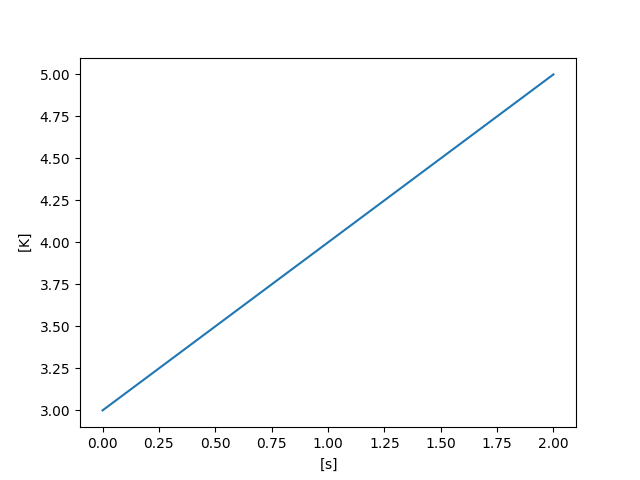
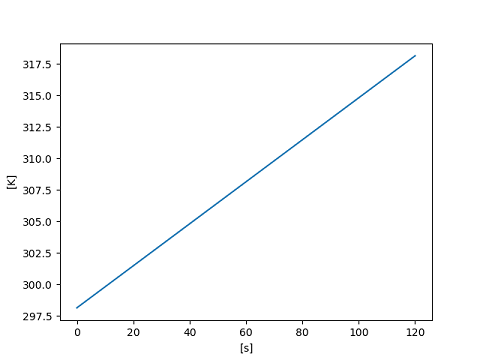
address review comments
- add name attribute to docstrings of unyt_array and unyt_quantity
- add name attribute documentation to usage
- update matplotlib documentation
- add more tests

diff --git a/unyt/mpl_interface.py b/unyt/mpl_interface.py
@@ -1,7 +1,11 @@
 """
-Register unyt_array with Matplotlib if it is available
+Matplotlib offers support for custom classes, such as unyt_array, allowing customization
+of axis information and unit conversion. In the case of unyt, the axis label is set
+based on the unyt_array.name and unyt_array.units attributes. It is also possible to
+convert the plotted units.
 
-
+This feature is optional and has to be enabled using the matplotlib_support context
+manager.
 """
 
 # -----------------------------------------------------------------------------
@@ -24,8 +28,20 @@ else:
     class unyt_arrayConverter(ConversionInterface):
         """Matplotlib interface for unyt_array"""
 
+        _instance = None
         _labelstyle = "()"
         _axisnames = WeakKeyDictionary()
+
+        # ensure that unyt_arrayConverter is a singleton
+        def __new__(cls):
+            if unyt_arrayConverter._instance is None:
+                unyt_arrayConverter._instance = super().__new__(cls)
+            return unyt_arrayConverter._instance
+
+        # When matplotlib first encounters a type in its units.registry, it will
+        # call default_units to obtain the units. Then it calls axisinfo to
+        # customize the axis - in our case, just set the label. Then matplotlib calls
+        # convert.
 
         @staticmethod
         def axisinfo(unit, axis):
@@ -59,18 +75,12 @@ else:
                 if unyt_arrayConverter._labelstyle == "[]":
                     label = name + "$\\left[" + unit_str + "\\right]$"
                 elif unyt_arrayConverter._labelstyle == "/":
-                    axsym = axis.axis_name
+                    axsym = "$q_{\\rm" + axis.axis_name + "}$"
+                    name = axsym if name == " " else name
                     if "/" in unit_str:
-                        label = (
-                            name
-                            + "$q_{"
-                            + axsym
-                            + "}\\;/\\;\\left("
-                            + unit_str
-                            + "\\right)$"
-                        )
+                        label = name + "$\\;/\\;\\left(" + unit_str + "\\right)$"
                     else:
-                        label = name + "$q_{" + axsym + "}\\;/\\;" + unit_str + "$"
+                        label = name + "$\\;/\\;" + unit_str + "$"
                 else:
                     label = name + "$\\left(" + unit_str + "\\right)$"
             return AxisInfo(label=label.strip())
@@ -91,6 +101,9 @@ else:
             Unit object
             """
             name = getattr(x, "name", "")
+            # maintain a mapping between Axis and name since Axis does not point to
+            # its underlying data and we want to propagate the name to the axis
+            # label in the subsequent call to axisinfo
             unyt_arrayConverter._axisnames[axis] = name if name is not None else ""
             return x.units
 
@@ -135,18 +148,22 @@ else:
             return converted_value
 
     class matplotlib_support:
-        """Context manager for setting up integration with Unyt in Matplotlib
+        """Context manager for enabling the feature
 
-        Parameters
-        ----------
+        When used in a with statement, the feature is enabled during the context and
+        then disabled after it exits.
 
-        label_style : str
-          One of the following set, ``{'()', '[]', '/'}``. These choices
-          correspond to the following unit labels:
+        Example
+        -------
 
-            * ``'()'`` -> ``'(unit)'``
-            * ``'[]'`` -> ``'[unit]'``
-            * ``'/'`` -> ``'q_x / unit'``
+        >>> import matplotlib.pyplot as plt
+        >>> from unyt import matplotlib_support, unyt_array
+        >>> x = unyt_array([0,1,2], "s", name="time")
+        >>> y = unyt_array([3,4,5], "m", name="distance")
+        >>> with matplotlib_support:
+        ...     plt.plot(x, y)
+        ...     plt.show()
+        [<matplotlib.lines.Line2D object at ...>]
         """
 
         def __init__(self, label_style="()"):
@@ -189,3 +206,6 @@ else:
         def disable(self):
             if self._enabled:
                 self.__exit__(None, None, None)
+
+
+__all__ = ["matplotlib_support"]

diff --git a/unyt/tests/test_mpl_interface.py b/unyt/tests/test_mpl_interface.py
@@ -180,15 +180,16 @@ def test_labelstyle():
     assert ax.yaxis.get_label().get_text() == expected_ylabel
     matplotlib_support.label_style = "/"
     ax.clear()
+    x.name = "$t$"
     ax.plot(x, y)
-    expected_xlabel = "$q_{x}\\;/\\;\\rm{s}$"
+    expected_xlabel = "$t$ $\\;/\\;\\rm{s}$"
     assert ax.xaxis.get_label().get_text() == expected_xlabel
-    expected_ylabel = "$q_{y}\\;/\\;\\rm{K}$"
+    expected_ylabel = "$q_{\\rmy}$$\\;/\\;\\rm{K}$"
     assert ax.yaxis.get_label().get_text() == expected_ylabel
     x = [0, 1, 2] * m / s
     ax.clear()
     ax.plot(x, y)
-    expected_xlabel = "$q_{x}\\;/\\;\\left(\\rm{m} / \\rm{s}\\right)$"
+    expected_xlabel = "$q_{\\rmx}$$\\;/\\;\\left(\\rm{m} / \\rm{s}\\right)$"
     assert ax.xaxis.get_label().get_text() == expected_xlabel
     _matplotlib.pyplot.close()
     matplotlib_support.disable()
@@ -207,3 +208,28 @@ def test_name(ax):
     ax.clear()
     ax.plot(x, y, xunits="ms")
     expected_xlabel = "time $\\left(\\rm{ms}\\right)$"
+
+
+def test_multiple_subplots():
+    x1 = unyt_array([0, 1, 2], "s", name="time")
+    y1 = unyt_array([6, 7, 8], "m", name="distance")
+    x2 = unyt_array([3, 4, 5], "V", name="voltage")
+    y2 = unyt_array([9, 10, 11], "A", name="current")
+    matplotlib_support.enable()
+    fig, ax = _matplotlib.pyplot.subplots(nrows=1, ncols=2)
+    ax[0].plot(x1, y1)
+    ax[1].plot(x2, y2)
+    expected_labels = [
+        "time $\\left(\\rm{s}\\right)$",
+        "distance $\\left(\\rm{m}\\right)$",
+        "voltage $\\left(\\rm{V}\\right)$",
+        "current $\\left(\\rm{A}\\right)$",
+    ]
+    generated_labels = []
+    for subplot in ax:
+        xlabel = subplot.xaxis.get_label().get_text()
+        ylabel = subplot.yaxis.get_label().get_text()
+        generated_labels.extend((xlabel, ylabel))
+    assert generated_labels == expected_labels
+    _matplotlib.pyplot.close()
+    matplotlib_support.disable()

diff --git a/unyt/array.py b/unyt/array.py
@@ -355,6 +355,9 @@ class unyt_array(np.ndarray):
         corrupted, invalid units or array data, but can lead to significant
         speedups in the input validation logic adds significant overhead. If
         set, input_units *must* be a valid unit object. Defaults to False.
+    name : string
+        The name of the array. Defaults to None. This attribute does not propagate
+        through operations.
 
     Examples
     --------
@@ -1942,6 +1945,9 @@ class unyt_quantity(unyt_array):
         of the registry associated with the unit object.
     dtype : data-type
         The dtype of the array data.
+    name : string
+        The name of the scalar. Defaults to None. This attribute does not propagate
+        through operations.
 
     Examples
     --------
@@ -1976,6 +1982,7 @@ class unyt_quantity(unyt_array):
         dtype=None,
         bypass_validation=False,
         input_units=None,
+        name=None,
     ):
         if input_units is not None:
             warnings.warn(
@@ -2001,6 +2008,7 @@ class unyt_quantity(unyt_array):
             registry,
             dtype=dtype,
             bypass_validation=bypass_validation,
+            name=name,
         )
         if ret.size > 1:
             raise RuntimeError("unyt_quantity instances must be scalars")

diff --git a/unyt/tests/test_unyt_array.py b/unyt/tests/test_unyt_array.py
@@ -2320,3 +2320,14 @@ def test_clip():
     assert positions.units == left_edge.units
     assert positions.max() == 1.0 * km
     assert positions.min() == 0.0 * km
+
+
+def test_name_attribute():
+    a = unyt_array([0, 1, 2], "s")
+    assert a.name is None
+    a.name = "time"
+    assert a.name == "time"
+    a.convert_to_units("ms")
+    assert a.name == "time"
+    b = unyt_quantity(1, "m", name="distance")
+    assert b.name == "distance"

diff --git a/docs/usage.rst b/docs/usage.rst
@@ -1182,6 +1182,31 @@ function. In other words, apply or check units at interfaces, but during an
 internal calculation it is often worth stripping units, especially if the
 calculation involves many operations on arrays with only a few elements.
 
+:class:`unyt_array.name <unyt.array.unyt_array.name>` attribute
++++++++++++++++++++++++++++++++++++++++++++++++++++++++++++++++
+
+The unyt_array has a name attribute for use in structured-data applications or
+similar applications that require labeled data. For example, Numpy has record arrays
+and when constructed as shown below, it is possible to retain the units while taking
+advantage of the labeled record fields.
+
+  >>> import numpy as np
+  >>> from unyt import unyt_array
+  >>> x = unyt_array([0, 1, 2], "s", name="time")
+  >>> y = unyt_array([3, 4, 5], "m", name="distance")
+  >>> data = (x, y)
+  >>> dt = [(a.name, "O") for a in data]
+  >>> data_points = np.array(list(zip(*data)), dtype=dt).view(np.recarray)
+  >>> data_points[0].time
+  unyt_quantity(0, 's')
+  >>> data_points[0].distance
+  unyt_quantity(3, 'm')
+
+.. note::
+  The name attribute does not propagate through mathematical operations or even the
+  unyt_array.copy() function. The only exception to this is the unyt_array.convert_to_units()
+  function that performs an in-place conversion.
+
 Plotting with Matplotlib
 ++++++++++++++++++++++++
 .. note::
@@ -1194,9 +1219,9 @@ Matplotlib is Unyt aware. After enabling support in :mod:`unyt` using the
 manager, Matplotlib will label the x and y axes with the units.
 
   >>> import matplotlib.pyplot as plt
-  >>> from unyt import s, K, matplotlib_support
-  >>> x = [0.0, 0.01, 0.02]*s
-  >>> y = [298.15, 308.15, 318.15]*K
+  >>> from unyt import matplotlib_support, unyt_array
+  >>> x = unyt_array([0.0, 60.0, 120.0], "s")
+  >>> y = unyt_array([298.15, 308.15, 318.15], "K")
   >>> with matplotlib_support:
   ...   plt.plot(x, y)
   ...   plt.show()
@@ -1207,24 +1232,47 @@ manager, Matplotlib will label the x and y axes with the units.
 You can change the plotted units without affecting the original data.
 
   >>> with matplotlib_support:
-  ...   plt.plot(x, y, xunits="ms", yunits=("J", "thermal"))
+  ...   plt.plot(x, y, xunits="min", yunits=("J", "thermal"))
   ...   plt.show()
   [<matplotlib.lines.Line2D object at ...>]
 
 .. image:: _static/mpl_fig2.png
 
-It is also possible to set the label style, the choices ``"()"``, ``"[]"`` and
+It is also possible to set the label style; the choices ``"()"``, ``"[]"`` and
 ``"/"`` are supported.
 
-  >>> import matplotlib.pyplot as plt
-  >>> from unyt import s, K, matplotlib_support
   >>> matplotlib_support.label_style = "[]"
   >>> with matplotlib_support:
-  ...   plt.plot([0, 1, 2]*s, [3, 4, 5]*K)
+  ...   plt.plot(x, y)
   ...   plt.show()
   [<matplotlib.lines.Line2D object at ...>]
 
 .. image:: _static/mpl_fig3.png
+
+The axis label will include the unyt_array.name attribute if set.
+
+  >>> x.name = "Time"
+  >>> y.name = "Temperature"
+  >>> with matplotlib_support:
+  ...   plt.plot(x, y)
+  ...   plt.show()
+  [<matplotlib.lines.Line2D object at ...>]
+
+.. image:: _static/mpl_fig4.png
+
+With label_style set to "/", the axis label conforms to the SI standard where the
+axis label is a mathematical expression rather than a caption. In this case, set the
+unyt_array.name attribute to the latex expression for the physical quantity symbol.
+
+  >>> x.name = "$t$"
+  >>> y.name = ""
+  >>> matplotlib_support.label_style = "/"
+  >>> with matplotlib_support:
+  ...   plt.plot(x, y)
+  ...   plt.show()
+  [<matplotlib.lines.Line2D object at ...>]
+
+.. image:: _static/mpl_fig5.png
 
 There are three ways to use the context manager:
 
